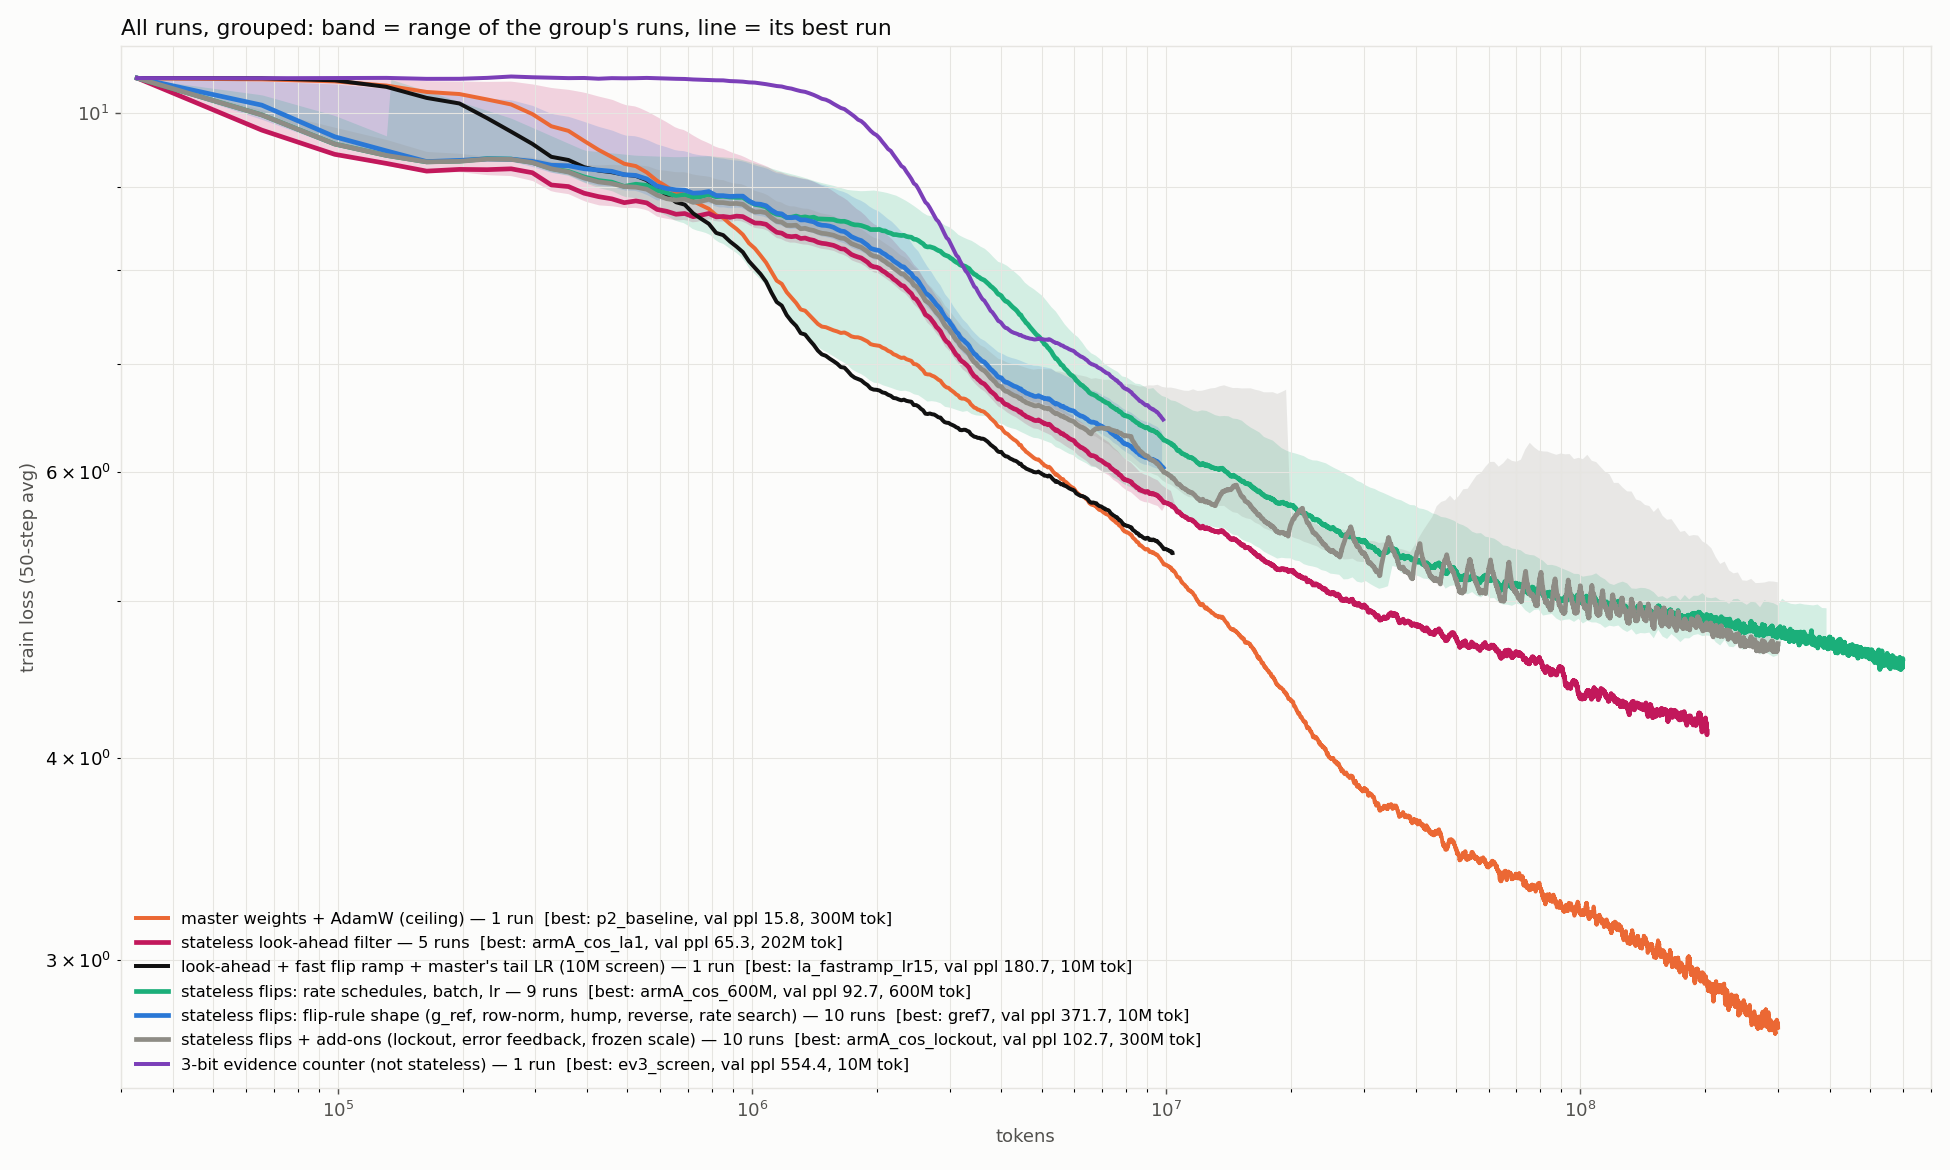
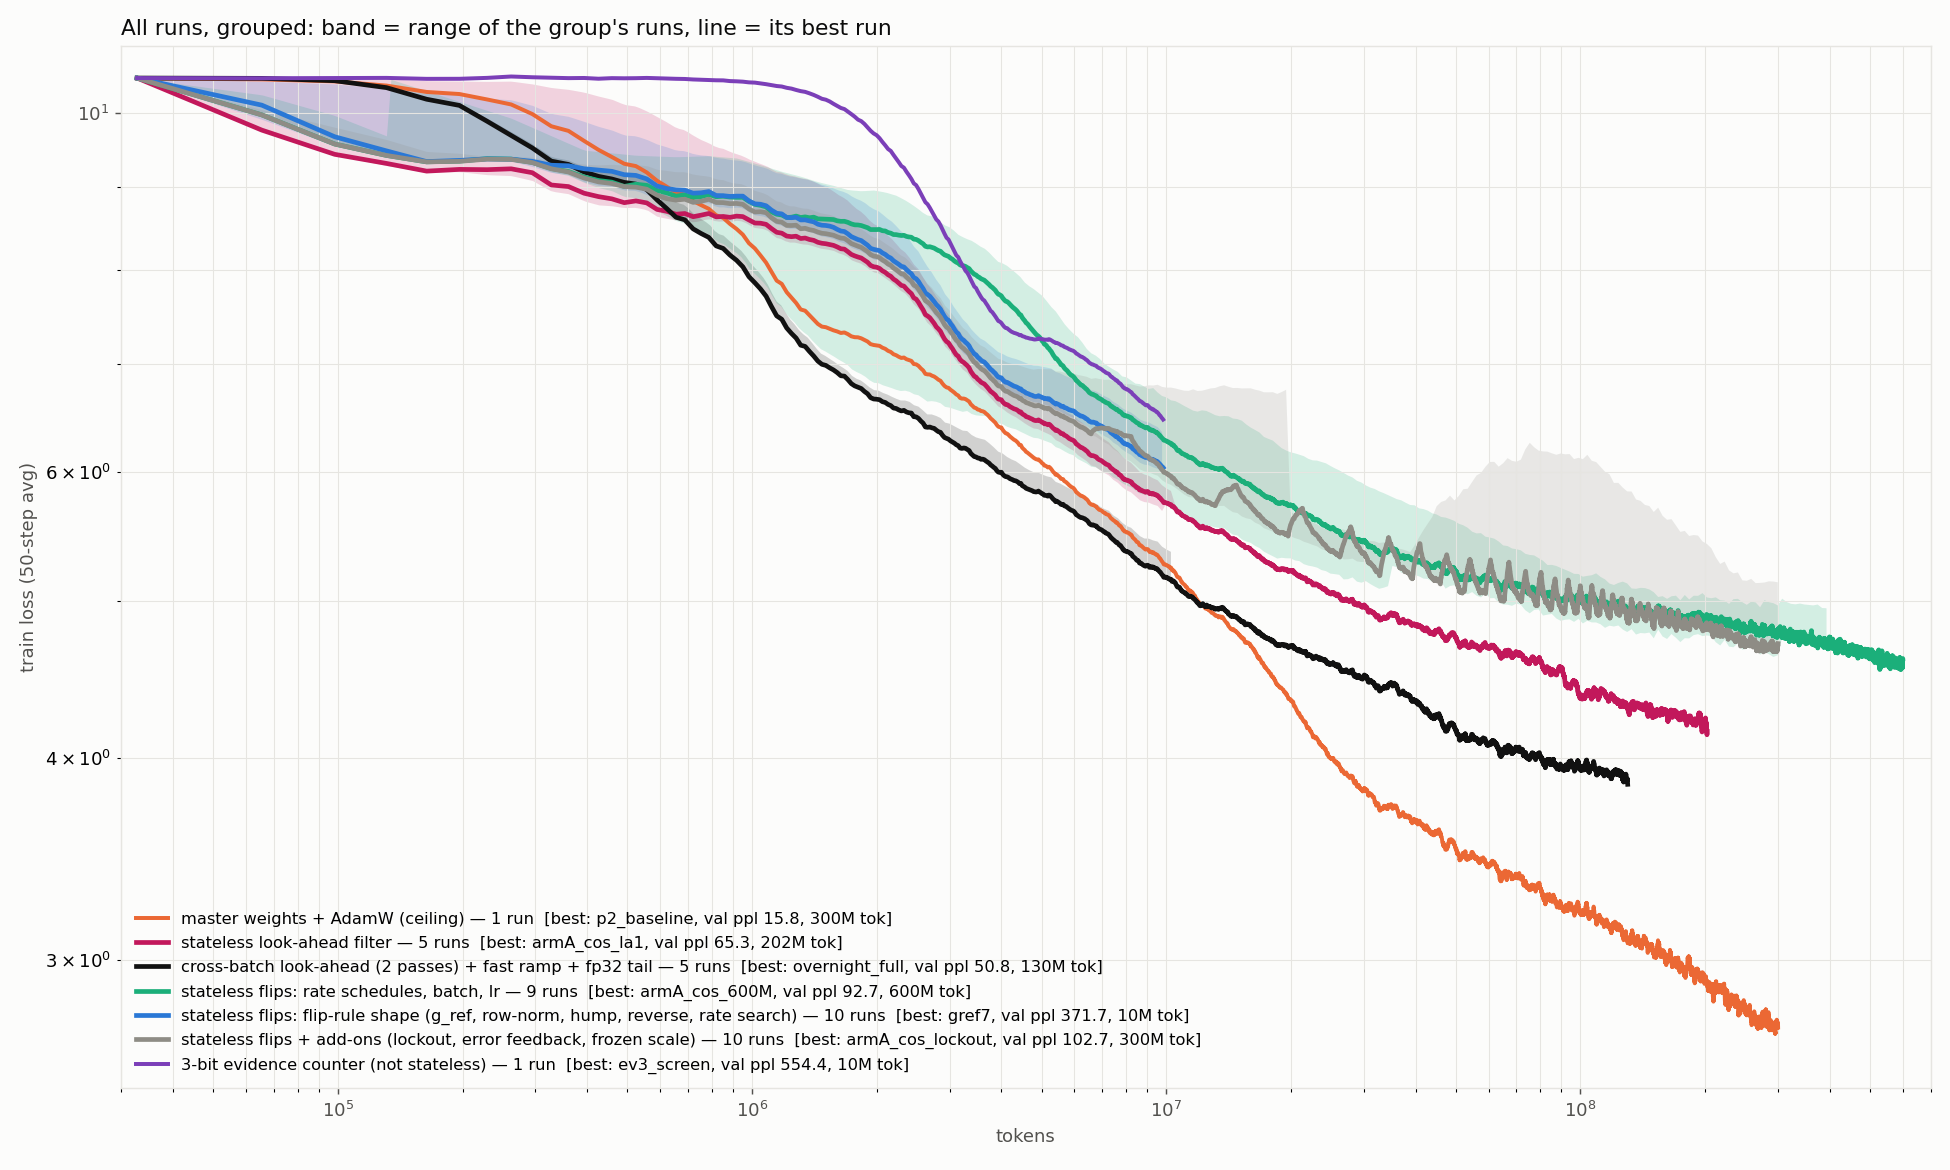
Record the night: calibrated per-step efficiency, cross-batch look-ahead screens, full run to 130M tokens
Claude-Session: https://claude.ai/code/session_01BnM9ozRQbpzv5q7zzVCEsn

diff --git a/scripts/plots/plot_live.py b/scripts/plots/plot_live.py
@@ -11,7 +11,8 @@ import matplotlib.pyplot as plt
 SURFACE, INK, INK2, GRID = "#fcfcfb", "#0b0b0b", "#52514e", "#e6e5e1"
 RUNS = [  # dir, label, color, width
     ("p2_baseline",   "master weights (ceiling)",           "#eb6834", 2.2),
-    ("armA_cos_la1",  "LOOK-AHEAD (running)",               "#c2185b", 3.0),
+    ("overnight_full", "CROSS-BATCH LOOK-AHEAD x2 + fast ramp + fp32 tail (running)", "#111111", 3.0),
+    ("armA_cos_la1",  "look-ahead (same batch), stopped at 202M", "#c2185b", 2.4),
     ("armA_cosine",   "flips, cosine rate (reference)",     "#1baf7a", 2.2),
     ("armA_cos_r005", "flips, cosine from 4x lower rate",   "#2a78d6", 1.4),
     ("armA_cos_600M", "flips, cosine rate, 600M schedule",  "#8e8c85", 1.4),
@@ -41,10 +42,10 @@ a = ap.parse_args()
 fig, (ax1, ax2) = plt.subplots(1, 2, figsize=(18, 7.5), facecolor=SURFACE)
 for d, lab, c, lw in RUNS:
     t, L, vt, vp = load(d)
-    ax1.plot(t, smooth(L), color=c, lw=lw, label=lab, zorder=6 if "LOOK" in lab else 4)
+    ax1.plot(t, smooth(L), color=c, lw=lw, label=lab, zorder=6 if "CROSS" in lab else 4)
     if len(vp):
-        ax2.plot(vt, vp, "o-", color=c, lw=lw, ms=5, label=lab, zorder=6 if "LOOK" in lab else 4)
-        if "LOOK" in lab:
+        ax2.plot(vt, vp, "o-", color=c, lw=lw, ms=5, label=lab, zorder=6 if "CROSS" in lab else 4)
+        if "CROSS" in lab:
             ax2.annotate(f"{vp[-1]:.1f}", (vt[-1], vp[-1]), textcoords="offset points",
                          xytext=(8, 4), color=c, fontsize=11, weight="bold")
 for ax, yl, title in ((ax1, "train loss (100-step avg)", "Train loss, log-log"),

diff --git a/scripts/plots/plot_all.py b/scripts/plots/plot_all.py
@@ -18,8 +18,8 @@ GROUPS = [
     ("master weights + AdamW (ceiling)", "#eb6834", "p2_baseline", ["p2_baseline"]),
     ("stateless look-ahead filter", "#c2185b", "armA_cos_la1",
      ["armA_cos_la1", "la1", "la2", "la_rwarm", "la_r0ramp"]),
-    ("look-ahead + fast flip ramp + master's tail LR (10M screen)", "#111111",
-     "la_fastramp_lr15", ["la_fastramp_lr15"]),
+    ("cross-batch look-ahead (2 passes) + fast ramp + fp32 tail", "#111111",
+     "overnight_full", ["overnight_full", "la_xb1", "la_xb2", "la_fastramp_lr15", "la_fast_fp32tail"]),
     ("stateless flips: rate schedules, batch, lr", "#1baf7a", "armA_cos_600M",
      ["armA_cosine", "armA_cos_600M", "armA_linear", "armA_cos_r005", "armA_cos_floor",
       "p3b_acc1", "p3b_acc4", "armA_cos_lr15", "lr_ctl"]),

diff --git a/docs/RUNS.md b/docs/RUNS.md
@@ -744,3 +744,55 @@ loss slightly lower and the gap growing slowly (-0.014 at 3.3M, -0.019 at 9.9M, 
 at 10.4M), val 5.188 vs 5.197. Slopes unchanged over 3-10M (-0.134/-0.144 vs
 -0.136/-0.143; master -0.21/-0.20): the gains barely move this early (~1%), so the
 effect should matter mainly in long runs.
+
+## Night of 2026-09-24: cross-batch look-ahead
+
+### Per-step efficiency, calibrated (`scripts/analysis/efficiency_test.py`)
+
+One look-ahead step at rate 0.02 on checkpoints from 3M to 23M tokens. First-order
+prediction of the kept flips, from the training batch's gradient ("intended") and from
+a held-out gradient ("real"), against the measured held-out loss change. Calibration:
+applying only 1% of the kept flips (a linear step), measured / held-out prediction =
+0.95-1.15 at every checkpoint, so the prediction is right. (An earlier version
+multiplied by beta twice; its magnitudes were off by ~1/beta.)
+
+| full step | range over checkpoints |
+|---|---|
+| signal = real / intended | **0.17-0.35** |
+| survive = measured / real | **0.06-0.44** |
+| efficiency = measured / intended | **1-12%** |
+
+Two separate leaks: about two-thirds of what a step intends is batch noise (the
+same-batch look-ahead filter cannot see it), and of the real part most is lost to the
+flips' interaction and curvature even after filtering.
+
+### Cross-batch look-ahead (`--lookahead_xbatch`), 10M-token screens
+
+The look-ahead pass(es) use a fresh batch (separate RNG stream; training batch order
+unchanged), so a flip survives only if it is downhill on both batches. Base config
+`la_fast_fp32tail` (same-batch look-ahead, val 5.1883).
+
+| run | passes | val @ 10M |
+|---|---|---|
+| `la_fast_fp32tail` | 1, same batch | 5.1883 |
+| `la_xb1` | 1, cross-batch | 5.1817 |
+| **`la_xb2`** | **2, each on a new batch** | **5.0021** |
+
+A second pass only pays once it brings new evidence: two cross-batch passes are the
+largest single gain of any change so far (-0.19).
+
+### `overnight_full`: full-schedule run of `la_xb2` (stopped at step ~3980, 130M tokens)
+
+Look-ahead 2 passes cross-batch + fast rate ramp + fp32 tail + master's tail LR,
+9155-step schedule. Thermal guard 82/76 C for 8 h without a crash (~7.4 s/step);
+switched to 84/79 at step 3965 and the machine reset within minutes of the restart.
+
+| val ppl @ step | overnight_full | look-ahead (same batch) | plain flips | master |
+|---|---|---|---|---|
+| 1000 | **80.4** | 124.9 | 188.3 | 41.4 |
+| 2000 | **55.7** | 96.5 | 148.3 | 28.7 |
+| 3000 | **50.8** | 80.1 | 139.6 | 24.3 |
+
+Best stateless result by far, but flattening: val slope 2000->3000 is -0.057
+(same-batch look-ahead -0.103, master -0.123). Extrapolating the slope plus the usual
+anneal drop puts the end of the schedule around ppl 33-40.
